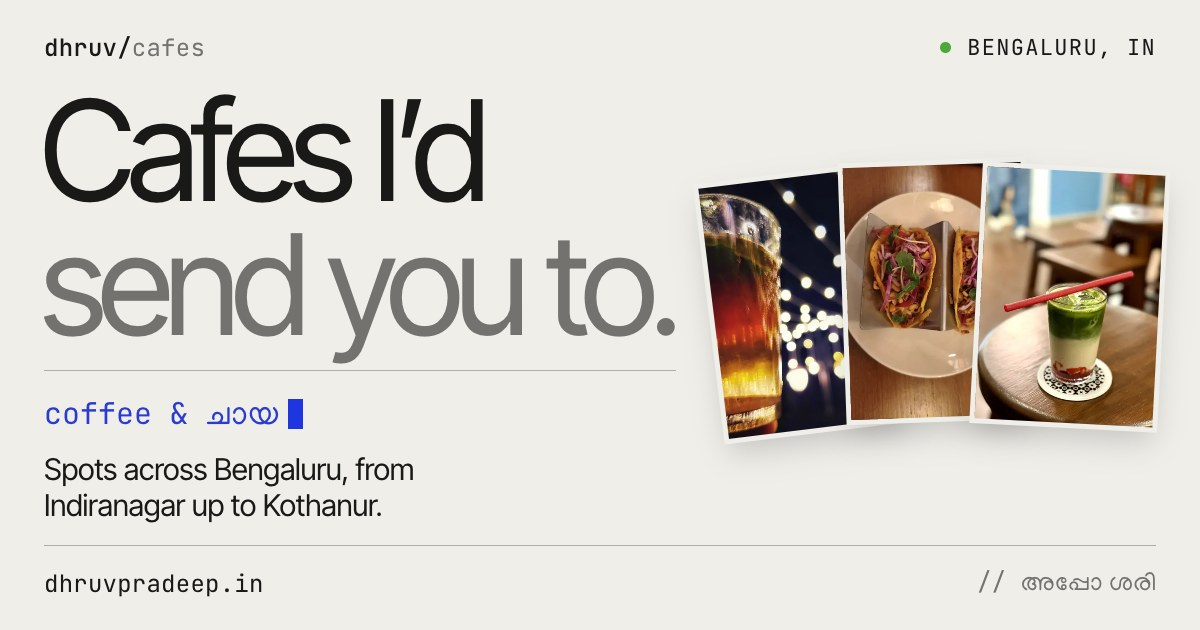
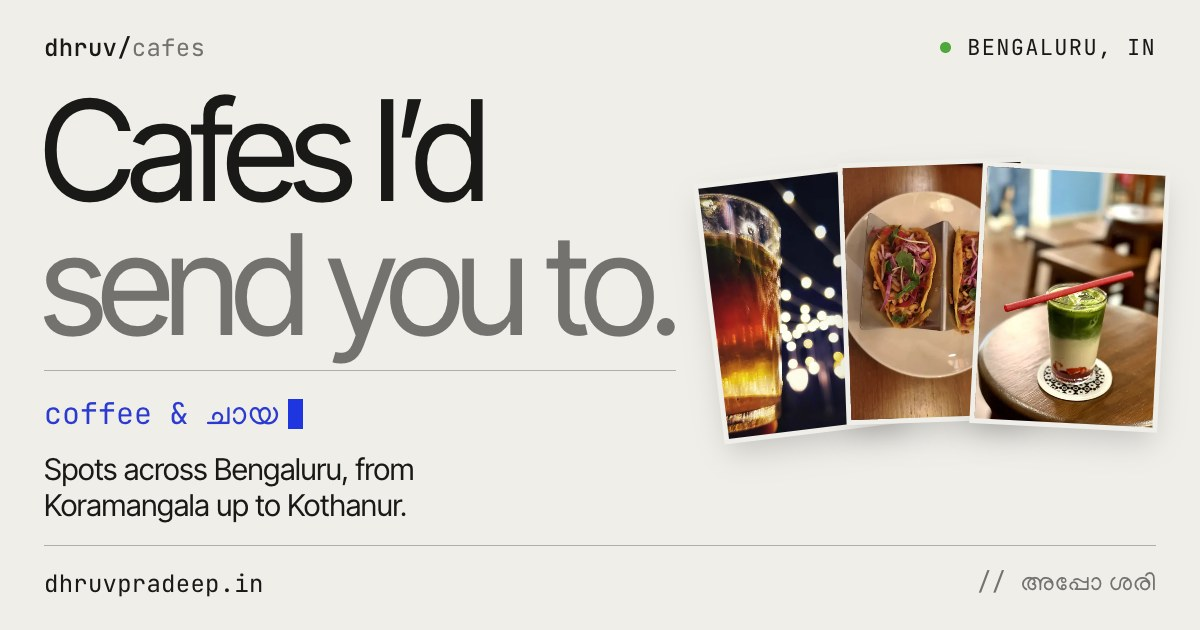
cafes: add The Kind and Subko

Changed region(s): [[0.0308, 0.7841, 0.3392, 0.8444]]

diff --git a/cafes.html b/cafes.html
@@ -12,14 +12,14 @@
     <link rel="icon" type="image/png" sizes="32x32" href="/favicon-32.png">
     <link rel="icon" type="image/png" sizes="192x192" href="/favicon.png">
     <link rel="apple-touch-icon" href="/apple-touch-icon.png">
-    <meta name="description" content="The cafes and chaya spots I recommend in Bengaluru, from Indiranagar up to Kothanur, each with photos and a Google Maps link.">
+    <meta name="description" content="The cafes and chaya spots I recommend in Bengaluru, from Koramangala up to Kothanur, each with photos and a Google Maps link.">
     <meta property="og:title" content="Cafes — Dhruv Pradeep">
     <meta property="og:image" content="https://dhruvpradeep.in/og/cafes.jpg">
     <meta property="og:image:width" content="1200">
     <meta property="og:image:height" content="630">
     <meta property="og:image:alt" content="Cafes I’d send you to. — Dhruv Pradeep">
     <meta name="twitter:image" content="https://dhruvpradeep.in/og/cafes.jpg">
-    <meta property="og:description" content="The cafes and chaya spots I recommend in Bengaluru, from Indiranagar up to Kothanur.">
+    <meta property="og:description" content="The cafes and chaya spots I recommend in Bengaluru, from Koramangala up to Kothanur.">
     <meta property="og:url" content="https://dhruvpradeep.in/cafes">
     <meta property="og:type" content="website">
     <meta name="twitter:card" content="summary_large_image">
@@ -181,7 +181,7 @@
             </div>
             <hr class="hero-rule">
             <div class="hero-row r r2">
-                <span><b>Bengaluru</b> &middot; 13 spots</span>
+                <span><b>Bengaluru</b> &middot; 15 spots</span>
                 <span class="hint-mouse">Move across a name to flip through photos. Click to open.</span>
                 <span class="hint-touch">Tap a name to open it.</span>
             </div>
@@ -191,7 +191,7 @@
             <div class="lists">
                 <!-- To add a spot: copy an <article class="spot">, change its id, coordinates, name and links.
                      Photos go in /assets/cafes/. The map reads data-lat and data-lng and redraws itself. -->
-                <h2 class="sec-h"><span>Cafes</span><span>9</span></h2>
+                <h2 class="sec-h"><span>Cafes</span><span>11</span></h2>
                 <div class="rows">
             <article class="spot rv" id="copper" data-lat="12.9777487" data-lng="77.6372497" data-name="Copper + Cloves" data-kind="cafe">
                 <div class="row">
@@ -400,6 +400,52 @@
                     </dl>
                 </div></div>
             </article>
+            <article class="spot rv" id="kind" data-lat="12.9701071" data-lng="77.6447307" data-name="The Kind" data-kind="cafe">
+                <div class="row">
+                    <span class="n">10</span>
+                    <img class="thumb" src="/assets/cafes/kind-1-t.webp" alt="" loading="lazy" decoding="async">
+                    <h3 class="name"><button type="button" aria-expanded="false" aria-controls="kind-more">The Kind</button></h3>
+                    <span class="area">Indiranagar</span>
+                    <span class="rate" aria-label="Rated 4.3 on Google Maps">4.3</span>
+                    <a class="go" href="https://share.google/jcmHnre53GGAcRtqi" target="_blank" rel="noopener" aria-label="Open The Kind in Google Maps">Maps <span>&#8599;&#xFE0E;</span></a>
+                </div>
+                <div class="more" id="kind-more"><div class="more-in">
+                    <div class="gal">
+                        <figure style="--a:0.711"><img data-src="/assets/cafes/kind-1-f.webp" width="995" height="1400" alt="Sunlit seating on a patterned floor at The Kind" decoding="async"></figure>
+                        <figure style="--a:1.026"><img data-src="/assets/cafes/kind-2-f.webp" width="1180" height="1150" alt="A cappuccino with latte art at The Kind" decoding="async"></figure>
+                        <figure style="--a:0.750"><img data-src="/assets/cafes/kind-3-f.webp" width="1050" height="1400" alt="A cream-filled bun at The Kind" decoding="async"></figure>
+                    </div>
+                    <dl class="facts">
+                        <div><dt>Find it</dt><dd>2985, 12th Main Rd, HAL 2nd Stage, Indiranagar</dd></div>
+                        <div><dt>Menu highlights</dt><dd>Cappuccino, Korean Garlic Bun</dd></div>
+                        <div><dt>On Maps</dt><dd>4.3 from 1,427 reviews &middot; ₹400–1,600</dd></div>
+                        <div><dt>Website</dt><dd><a href="https://thekindindia.com" target="_blank" rel="noopener">thekindindia.com &#8599;&#xFE0E;</a></dd></div>
+                    </dl>
+                </div></div>
+            </article>
+            <article class="spot rv" id="subko" data-lat="12.9258697" data-lng="77.6255362" data-name="Subko" data-kind="cafe">
+                <div class="row">
+                    <span class="n">11</span>
+                    <img class="thumb" src="/assets/cafes/subko-1-t.webp" alt="" loading="lazy" decoding="async">
+                    <h3 class="name"><button type="button" aria-expanded="false" aria-controls="subko-more">Subko</button></h3>
+                    <span class="area">Koramangala</span>
+                    <span class="rate" aria-label="Rated 4.2 on Google Maps">4.2</span>
+                    <a class="go" href="https://maps.app.goo.gl/9k3zAHjqwKPcpxxP7" target="_blank" rel="noopener" aria-label="Open Subko in Google Maps">Maps <span>&#8599;&#xFE0E;</span></a>
+                </div>
+                <div class="more" id="subko-more"><div class="more-in">
+                    <div class="gal">
+                        <figure style="--a:1.501"><img data-src="/assets/cafes/subko-1-f.webp" width="1400" height="933" alt="The painted green Subko storefront" decoding="async"></figure>
+                        <figure style="--a:0.750"><img data-src="/assets/cafes/subko-2-f.webp" width="1050" height="1400" alt="A croissant and an iced drink at Subko" decoding="async"></figure>
+                        <figure style="--a:0.750"><img data-src="/assets/cafes/subko-3-f.webp" width="1050" height="1400" alt="A toasted sandwich with pickles at Subko" decoding="async"></figure>
+                    </div>
+                    <dl class="facts">
+                        <div><dt>Find it</dt><dd>No. 68, 3rd Block, Koramangala</dd></div>
+                        <div><dt>Menu highlights</dt><dd>The Hipster Toast, Espresso Cream Croissant</dd></div>
+                        <div><dt>On Maps</dt><dd>4.2 from 1,307 reviews &middot; ₹400–1,400</dd></div>
+                        <div><dt>Website</dt><dd><a href="https://subko.coffee" target="_blank" rel="noopener">subko.coffee &#8599;&#xFE0E;</a></dd></div>
+                    </dl>
+                </div></div>
+            </article>
                 </div>
 
                 <section class="chaya-h" aria-labelledby="chaya-title">
@@ -411,7 +457,7 @@
                     <div class="rows">
             <article class="spot rv" id="chaipedia" data-lat="13.0209872" data-lng="77.639647" data-name="Chai Pedia" data-kind="chaya">
                 <div class="row">
-                    <span class="n">10</span>
+                    <span class="n">12</span>
                     <img class="thumb" src="/assets/cafes/chaipedia-1-t.webp" alt="" loading="lazy" decoding="async">
                     <h3 class="name"><button type="button" aria-expanded="false" aria-controls="chaipedia-more">Chai Pedia</button></h3>
                     <span class="area">Kalyan Nagar</span>
@@ -434,7 +480,7 @@
             </article>
             <article class="spot rv" id="kerala" data-lat="12.9722489" data-lng="77.6413267" data-name="Kerala Pavilion" data-kind="chaya">
                 <div class="row">
-                    <span class="n">11</span>
+                    <span class="n">13</span>
                     <img class="thumb" src="/assets/cafes/kerala-1-t.webp" alt="" loading="lazy" decoding="async">
                     <h3 class="name"><button type="button" aria-expanded="false" aria-controls="kerala-more">Kerala Pavilion</button></h3>
                     <span class="area">Indiranagar</span>
@@ -457,7 +503,7 @@
             </article>
             <article class="spot rv" id="bosco" data-lat="13.0691471" data-lng="77.6478098" data-name="Bosco Eatery" data-kind="chaya">
                 <div class="row">
-                    <span class="n">12</span>
+                    <span class="n">14</span>
                     <img class="thumb" src="/assets/cafes/bosco-1-t.webp" alt="" loading="lazy" decoding="async">
                     <h3 class="name"><button type="button" aria-expanded="false" aria-controls="bosco-more">Bosco Eatery</button></h3>
                     <span class="area">Kothanur</span>
@@ -480,7 +526,7 @@
             </article>
             <article class="spot rv" id="thut" data-lat="13.0603214" data-lng="77.6521906" data-name="T-HUT" data-kind="chaya">
                 <div class="row">
-                    <span class="n">13</span>
+                    <span class="n">15</span>
                     <img class="thumb" src="/assets/cafes/thut-1-t.webp" alt="" loading="lazy" decoding="async">
                     <h3 class="name"><button type="button" aria-expanded="false" aria-controls="thut-more">T-HUT</button></h3>
                     <span class="area">Kothanur</span>

diff --git a/scripts/og_build.py b/scripts/og_build.py
@@ -48,7 +48,7 @@ PAGES = [
     dict(file="manifesto.html", slug="manifesto", path="manifesto", word="I don&rsquo;t wait.", dim="I move.", mono="manifesto.js",
          desc="The principles behind the work.", tag="// read only."),
     dict(file="cafes.html", slug="cafes", path="cafes", word="Cafes I&rsquo;d", dim="send you to.", mono=f"coffee &amp; {CHAYA}",
-         desc="Spots across Bengaluru, from Indiranagar up to Kothanur.", visual="fan", tag='// <span lang="ml">അപ്പോ ശരി</span>'),
+         desc="Spots across Bengaluru, from Koramangala up to Kothanur.", visual="fan", tag='// <span lang="ml">അപ്പോ ശരി</span>'),
     dict(file="contact.html", slug="contact", path="contact", word="Reach out.", mono="mail &middot; socials &middot; book a call",
          desc="Personal and Cnvrted email, or book a call directly."),
     dict(file="uses.html", slug="uses", path="uses", word="Uses", mono="the setup",
